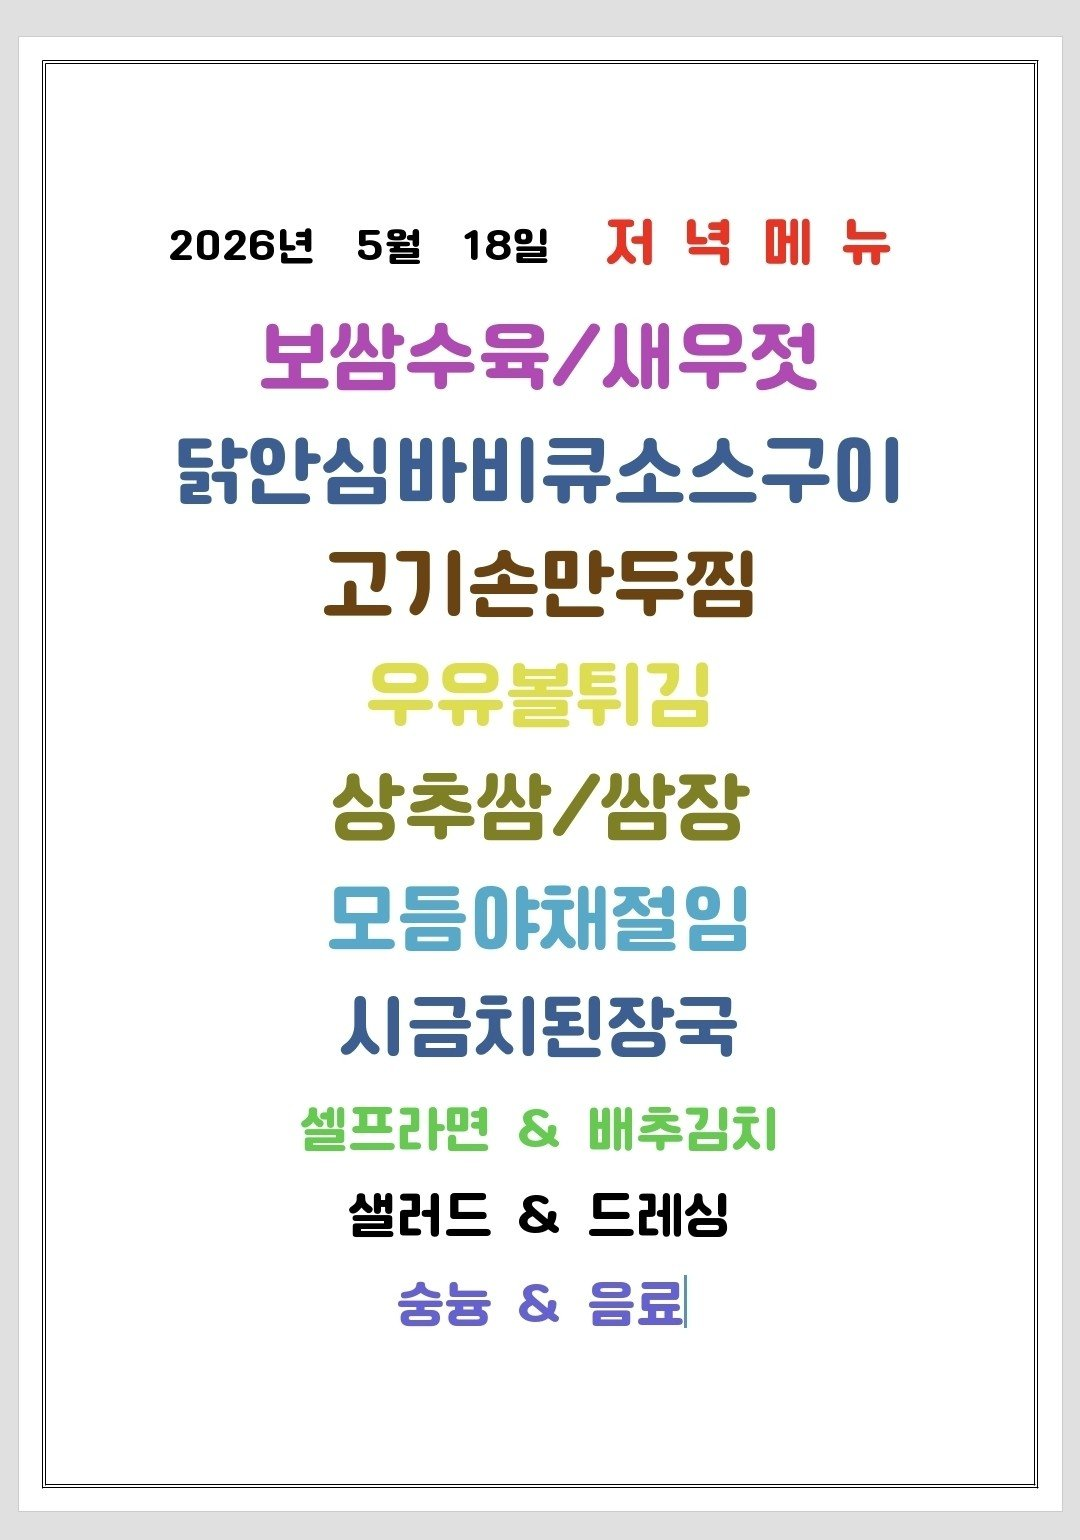
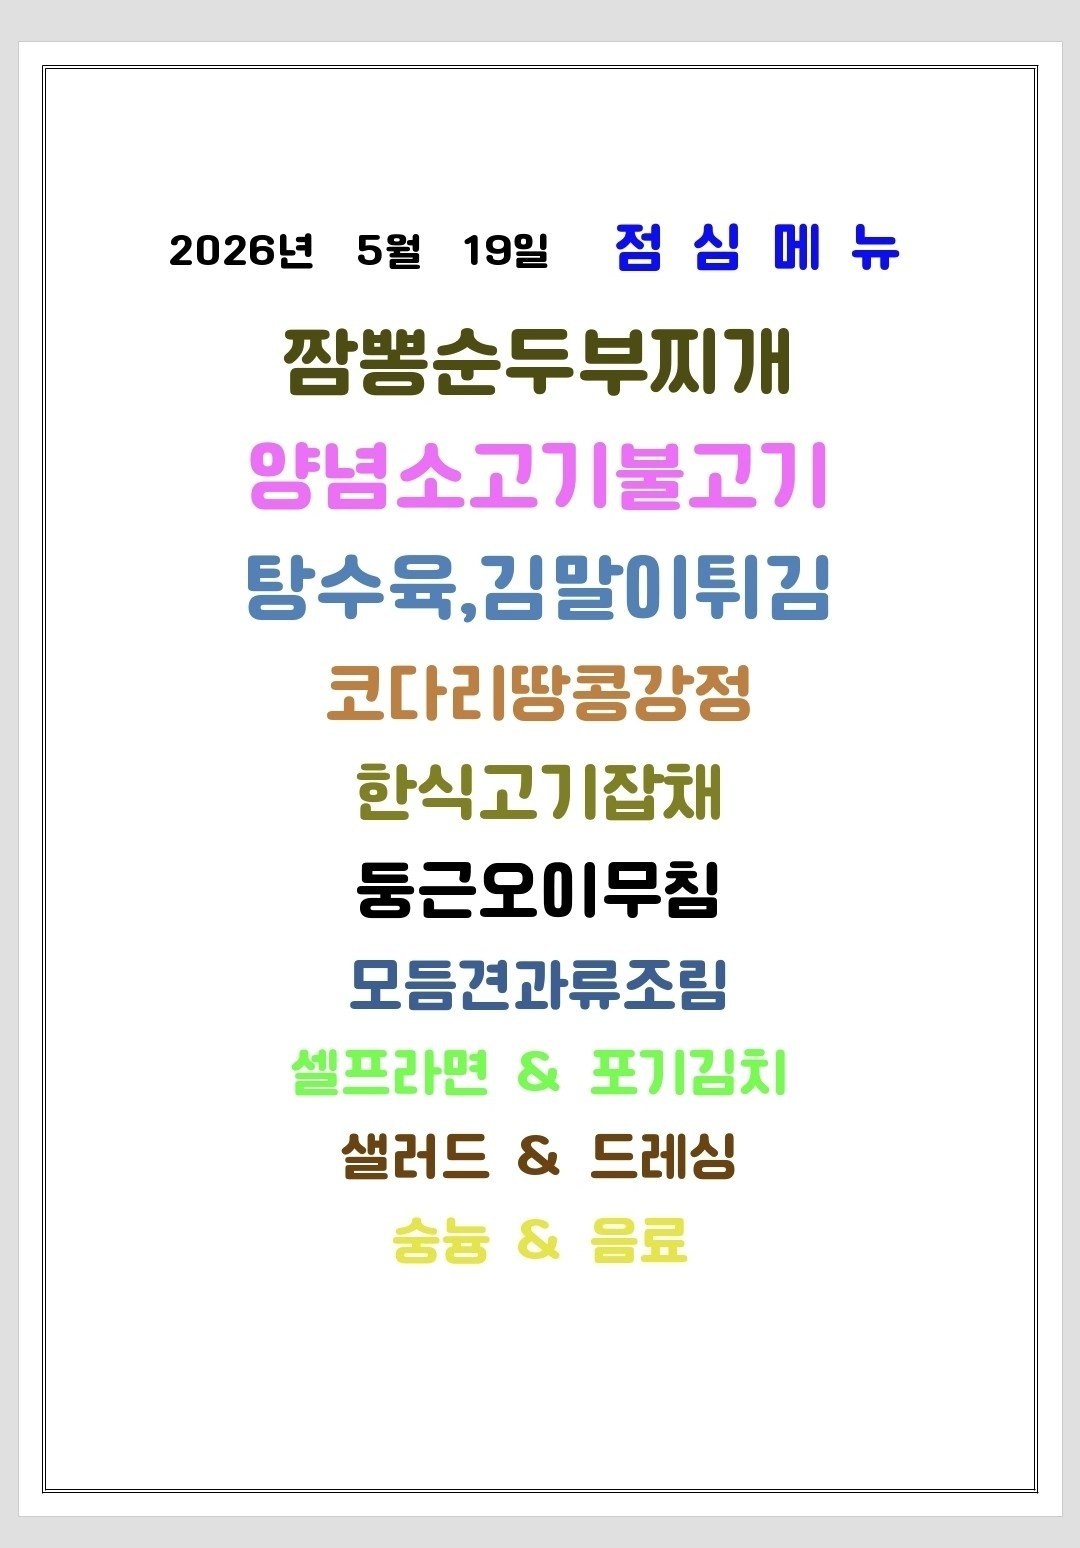
Update menu board assets

Changed region(s): [[0.1528, 0.1247, 0.8556, 0.8727], [0.0306, 0.0, 0.9778, 0.0623], [0.0611, 0.9351, 0.9472, 0.9662]]

diff --git a/menu-today/index.html b/menu-today/index.html
@@ -209,7 +209,7 @@
 
     <section class="meta-bar">
       <div class="meta-card"><div class="meta-label">기준 날짜</div><div class="meta-value">2026년 5월 19일 화요일</div></div>
-      <div class="meta-card"><div class="meta-label">최종 가져온 시간</div><div class="meta-value">2026-05-19 09:48:11</div></div>
+      <div class="meta-card"><div class="meta-label">최종 가져온 시간</div><div class="meta-value">2026-05-19 10:03:20</div></div>
       <div class="meta-card"><div class="meta-label">확인 완료</div><div class="meta-value">10개 식당</div></div>
       <div class="meta-card"><div class="meta-label">준비중</div><div class="meta-value">3개 채널</div></div>
     </section>
@@ -255,7 +255,7 @@
             <div class="sub">디폴리스지식산업센터</div>
           </div>
         </div>
-        <div class="menu-inline-image"><img src="./images/dipolis.png" alt="디폴리스 구내식당 식단 이미지"></div><div class="menu-section"><div class="menu-section-title">중식</div><ul><li>제육 고추장 불고기</li><li>등심 탕수육, 떡탕수</li><li>새콤달콤 비빔 국수</li><li>구수한 누룽지 / 모듬 야채쌈</li><li>크림소스 미트볼 조림</li><li>소고기 미역국</li><li>숙주나물무침</li><li>양배추 야채 샐러드</li><li>겉절이 김치</li><li>탄산음료</li></ul></div>
+        <div class="menu-inline-image"><img src="./images/dipolis.png" alt="디폴리스 구내식당 식단 이미지"></div><div class="menu-section"><div class="menu-section-title">중식</div><ul><li>제육고추장불고기</li><li>등심 탕수육, 떡탕수</li><li>새콤달콤 비빔 국수</li><li>구수한 누룽지 / 모듬 야채쌈</li><li>크림소스 미트볼 조림</li><li>소고기 미역국</li><li>숙주나물 무침</li><li>양배추 야채 샐러드</li><li>겉절이 김치</li><li>탄산음료</li></ul></div>
       </article>
 
       <article class="restaurant-card">
@@ -265,7 +265,7 @@
             <div class="sub">가산비즈니스센터</div>
           </div>
         </div>
-        <div class="menu-inline-image"><img src="./images/raonfood.png" alt="구내식당라온푸드 식단 이미지"></div><div class="info-note">오늘 메뉴 미수집 상태입니다.</div>
+        <div class="menu-inline-image"><img src="./images/raonfood.png" alt="구내식당라온푸드 식단 이미지"></div><ul><li>양념소고 )불고)</li><li>코다리땅콩감정</li><li>한식고 )잡재</li><li>모듬견과류조림</li><li>샐러드 &amp; 드레싱</li><li>sa &amp; 을료</li><li>량념소고 )불고 )</li><li>코다리땅콩강정</li></ul>
       </article>
 
       <article class="restaurant-card">
